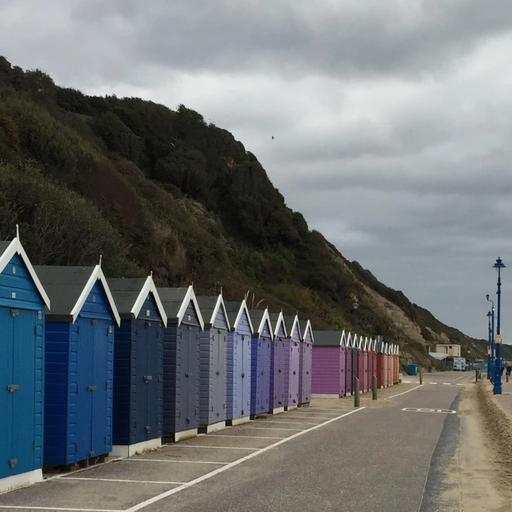
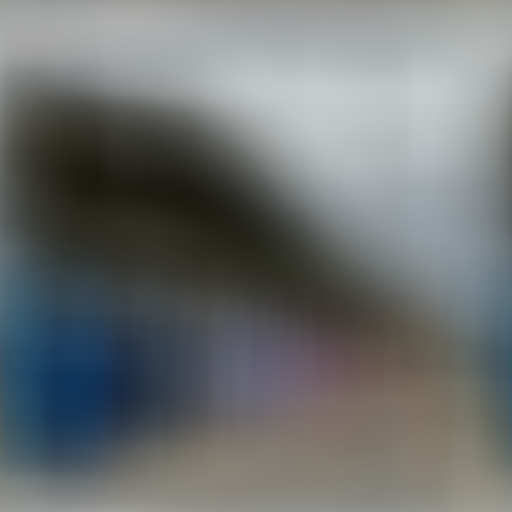
filter

diff --git a/AM_FinalAssignment/main.py b/AM_FinalAssignment/main.py
@@ -16,11 +16,22 @@ def main():
     cfft_image.show()
     cfft_image.save("./cfft.png")
 
+    kernel = create_kernel(arr, "box")
+    kern_arr = ff2d_transform(kernel)
+
+    kern_spectrum = np.abs(kern_arr)
+    kern_spectrum = np.clip(kern_spectrum/np.max(kern_spectrum), 0, 1)
+    kern_image = Image.fromarray(np.uint8(kern_spectrum*255))  # Clip values between 0 and 255
+    kern_image.show()
+    kern_image.save("./kern.png")
+
+    mult_arr = (cfft_arr * kern_spectrum)
+
     # Apply 2D Inverse FFT to get back the image
-    back_arr = ff2d_transform(cfft_arr, inv=True)/len(arr)
+    back_arr = ff2d_transform(mult_arr, inv=True)
 
     # Since the result might have small imaginary parts, we use the real part
-    back_image = np.real(back_arr)
+    back_image = np.real(back_arr)/len(arr)
     back_image = Image.fromarray(np.uint8(np.clip(back_image, 0, 255)))
     back_image.show()
     back_image.save("./output.png")
@@ -91,6 +102,18 @@ def fft(arr, inv=False):
 
     return result
 
+
+def create_kernel(arr, type="box"):
+    # Create a simple kernel (box filter)
+    kernel = np.zeros_like(arr, dtype=np.float64)
+
+    if type == "box":
+        # Define a box filter: 40% of image size
+        y_start, y_end = int(arr.shape[0] * 0.4), int(arr.shape[0] * 0.6)
+        x_start, x_end = int(arr.shape[1] * 0.4), int(arr.shape[1] * 0.6)
+        kernel[y_start:y_end, x_start:x_end] = 255  # Set the box region to 255 (white)
+
+    return kernel
 
 
 main()
